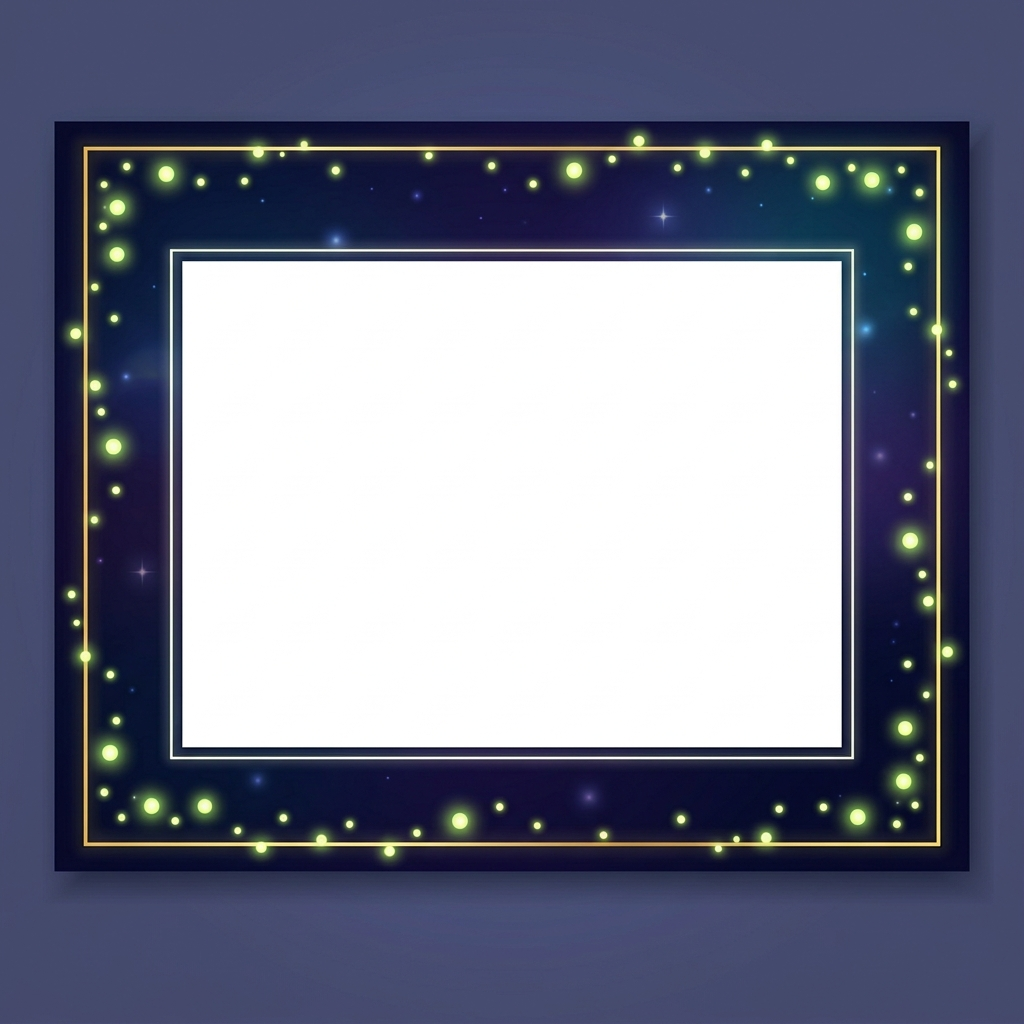
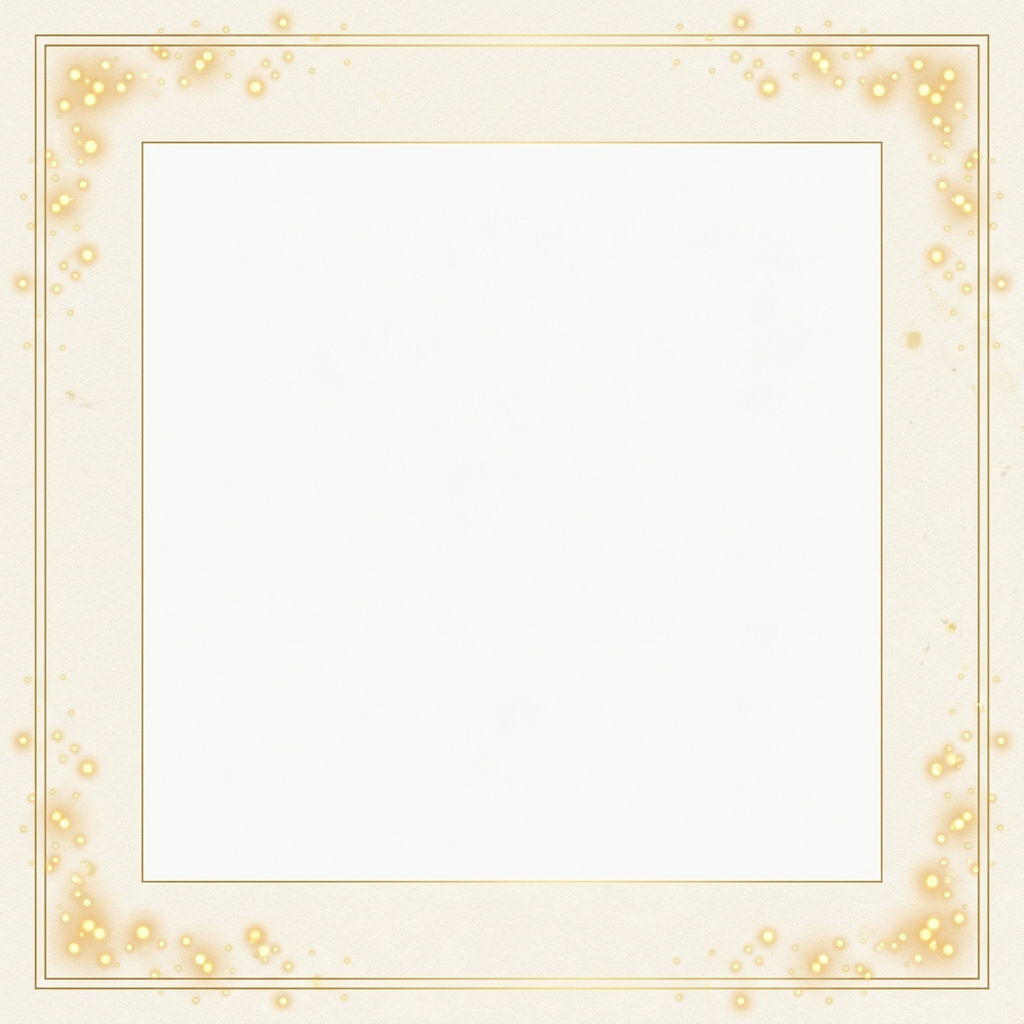
Add files via upload

diff --git a/index.html b/index.html
@@ -529,85 +529,7 @@
             <p class="bottom-pres-text">Ký ức này sẽ được bảo tồn cho các thế hệ tương lai.</p>
         </div>
 
-        <!-- 🎨 TEMPLATE DOWNLOAD GALLERY SECTION -->
-        <div class="templates-download-gallery">
-            <div class="gallery-section-header">
-                <h2 class="gallery-title">🎨 Tải Mẫu Khung Thiệp Màu Cao Cấp</h2>
-                <p class="gallery-subtitle">Tải các mẫu khung viền nghệ thuật độc quyền (A4/A5 ngang). Bạn mang ảnh này ra tiệm để <strong>in màu riêng trước</strong>, sau đó nhét giấy đã in màu đó vào máy in nhà rồi nhấn nút <strong>In thiệp</strong> trên trang web để chữ & ảnh được in đè vào đúng ô trắng ở giữa, tạo ra một tác phẩm nghệ thuật gia đình hoàn hảo!</p>
-            </div>
-            
-            <div class="templates-grid">
-                <!-- Card 1: Vườn Địa Đàng -->
-                <div class="template-gallery-card">
-                    <div class="template-thumb-wrapper">
-                        <img src="eden.png" alt="Vườn Địa Đàng" class="template-thumb-img">
-                    </div>
-                    <div class="template-card-body">
-                        <h4 class="template-card-title">🌿 Vườn Địa Đàng</h4>
-                        <p class="template-card-desc">Dây leo, nhánh lá và quả hoàng kim phong cách lãng mạn, cổ điển.</p>
-                        <a href="javascript:void(0)" onclick="openPrintTemplateModalWithTemplate('eden')" class="template-download-btn">
-                            <span>📥 Tải Khung (A4/A5)</span>
-                        </a>
-                    </div>
-                </div>
 
-                <!-- Card 2: Bướm Ký Ức -->
-                <div class="template-gallery-card">
-                    <div class="template-thumb-wrapper">
-                        <img src="butterfly.png" alt="Bướm Ký Ức" class="template-thumb-img">
-                    </div>
-                    <div class="template-card-body">
-                        <h4 class="template-card-title">🦋 Bướm Ký Ức</h4>
-                        <p class="template-card-desc">Bươm bướm crystalline trong suốt lung linh trôi nổi thanh khiết.</p>
-                        <a href="javascript:void(0)" onclick="openPrintTemplateModalWithTemplate('butterfly')" class="template-download-btn">
-                            <span>📥 Tải Khung (A4/A5)</span>
-                        </a>
-                    </div>
-                </div>
-
-                <!-- Card 3: Hoàng Gia Cổ Điển -->
-                <div class="template-gallery-card">
-                    <div class="template-thumb-wrapper">
-                        <img src="royal.png" alt="Hoàng Gia Cổ Điển" class="template-thumb-img">
-                    </div>
-                    <div class="template-card-body">
-                        <h4 class="template-card-title">⚜️ Hoàng Gia Cổ Điển</h4>
-                        <p class="template-card-desc">Họa tiết Baroque sang trọng mang đậm dấu ấn cung đình cổ kính.</p>
-                        <a href="javascript:void(0)" onclick="openPrintTemplateModalWithTemplate('royal')" class="template-download-btn">
-                            <span>📥 Tải Khung (A4/A5)</span>
-                        </a>
-                    </div>
-                </div>
-
-                <!-- Card 4: Tối Giản Gold -->
-                <div class="template-gallery-card">
-                    <div class="template-thumb-wrapper">
-                        <img src="minimal.png" alt="Tối Giản Gold" class="template-thumb-img">
-                    </div>
-                    <div class="template-card-body">
-                        <h4 class="template-card-title">📐 Tối Giản Gold</h4>
-                        <p class="template-card-desc">Đường kẻ hình học hiện đại, mảnh dẻ tinh tế và quý phái.</p>
-                        <a href="javascript:void(0)" onclick="openPrintTemplateModalWithTemplate('minimal')" class="template-download-btn">
-                            <span>📥 Tải Khung (A4/A5)</span>
-                        </a>
-                    </div>
-                </div>
-
-                <!-- Card 5: Đom Đóm Đêm -->
-                <div class="template-gallery-card">
-                    <div class="template-thumb-wrapper">
-                        <img src="firefly.png" alt="Đom Đóm Đêm" class="template-thumb-img">
-                    </div>
-                    <div class="template-card-body">
-                        <h4 class="template-card-title">✨ Đom Đóm Đêm</h4>
-                        <p class="template-card-desc">Ánh sáng đom đóm organic phát quang huyền ảo giữa đêm hè mơ mộng.</p>
-                        <a href="javascript:void(0)" onclick="openPrintTemplateModalWithTemplate('firefly')" class="template-download-btn">
-                            <span>📥 Tải Khung (A4/A5)</span>
-                        </a>
-                    </div>
-                </div>
-            </div>
-        </div>
     </section>
 
     <!-- ----------------------------------------- -->